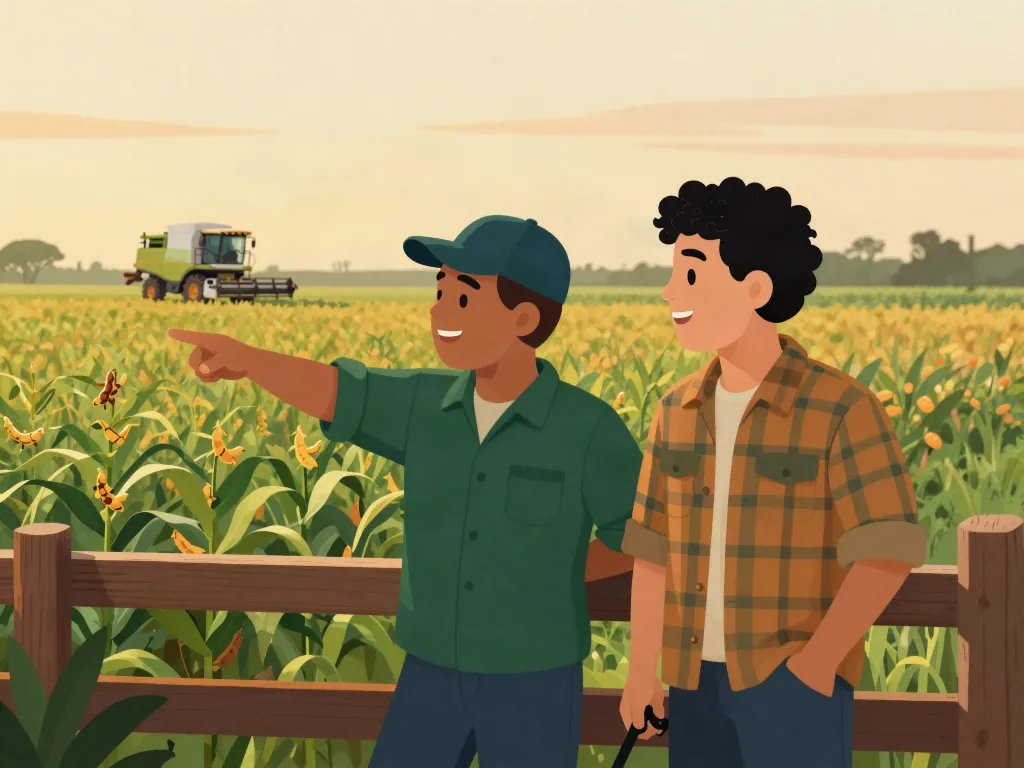
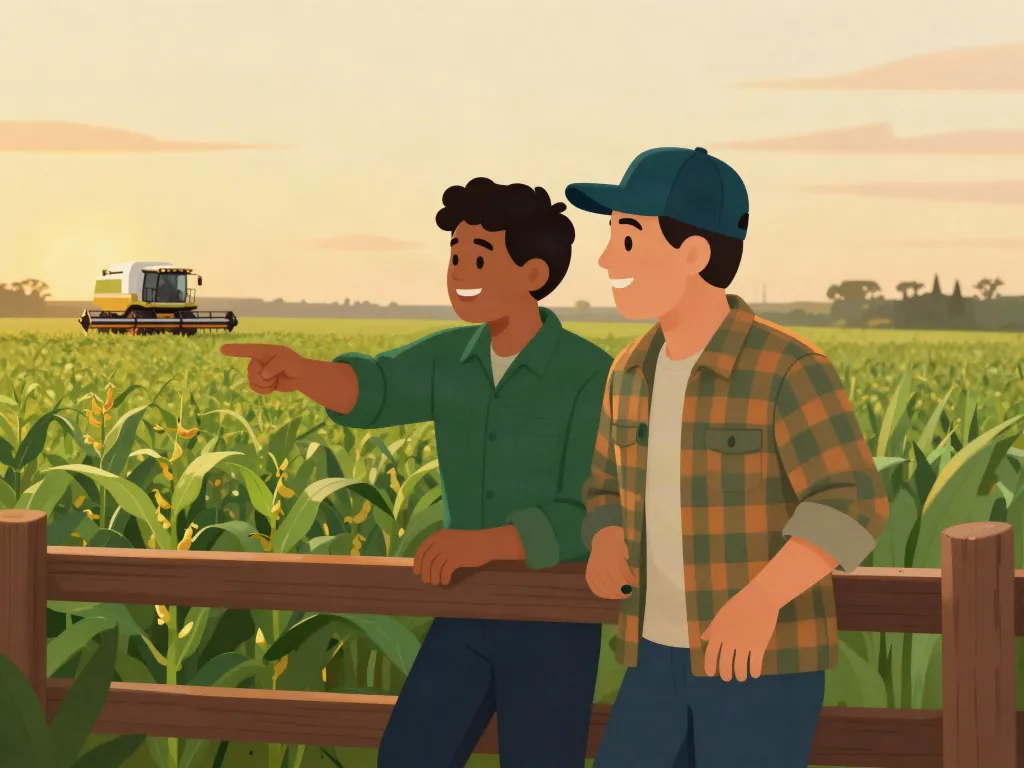
fix(slides): Agro 02 review and Agro 06 slide 3 pictures show Luan without a cap
The model had swapped the two men's caps and hair. The scenes now say that
only the American man wears a cap, and both pictures were generated again.

Claude-Session: https://claude.ai/code/session_01C7Bj6zBKBkBtG5mUz5zq5V

diff --git a/agro_aula_02.html b/agro_aula_02.html
@@ -457,7 +457,7 @@
         <button type="button" class="gs-expandir flex-shrink-0 w-10 h-10 rounded-full bg-white/15 hover:bg-white/25 text-white flex items-center justify-center transition-all active:scale-95" aria-label="Ver o slide 6 em tela cheia" title="Tela cheia"><svg aria-hidden="true" viewBox="0 0 24 24" width="20" height="20" fill="currentColor"><path d="M4 4h6v2H6v4H4V4zm10 0h6v6h-2V6h-4V4zM4 14h2v4h4v2H4v-6zm14 0h2v6h-6v-2h4v-4z"/></svg></button>
       </div>
       <div class="gs-corpo p-3 sm:p-4 sm:grid sm:grid-cols-5 sm:gap-4 sm:items-start">
-        <img class="gs-img block w-full h-auto rounded-2xl bg-emerald-50 sm:col-span-2" src="assets/img/gramatica/agro02-5.webp?v=46ca477481" alt="" width="1024" height="768" loading="lazy" decoding="async">
+        <img class="gs-img block w-full h-auto rounded-2xl bg-emerald-50 sm:col-span-2" src="assets/img/gramatica/agro02-5.webp?v=f6bb83b51f" alt="" width="1024" height="768" loading="lazy" decoding="async">
         <div class="gs-texto mt-3 sm:mt-0 sm:col-span-3">
           <ul class="gs-lista space-y-2">
             <li class="gs-item flex items-start gap-3 rounded-2xl bg-slate-50 px-3 py-3 sm:px-4">

diff --git a/agro_aula_06.html b/agro_aula_06.html
@@ -341,7 +341,7 @@
         <button type="button" class="gs-expandir flex-shrink-0 w-10 h-10 rounded-full bg-white/15 hover:bg-white/25 text-white flex items-center justify-center transition-all active:scale-95" aria-label="Ver o slide 4 em tela cheia" title="Tela cheia"><svg aria-hidden="true" viewBox="0 0 24 24" width="20" height="20" fill="currentColor"><path d="M4 4h6v2H6v4H4V4zm10 0h6v6h-2V6h-4V4zM4 14h2v4h4v2H4v-6zm14 0h2v6h-6v-2h4v-4z"/></svg></button>
       </div>
       <div class="gs-corpo p-3 sm:p-4 sm:grid sm:grid-cols-5 sm:gap-4 sm:items-start">
-        <img class="gs-img block w-full h-auto rounded-2xl bg-emerald-50 sm:col-span-2" src="assets/img/gramatica/agro06-3.webp?v=a13e65114c" alt="" width="1024" height="768" loading="lazy" decoding="async">
+        <img class="gs-img block w-full h-auto rounded-2xl bg-emerald-50 sm:col-span-2" src="assets/img/gramatica/agro06-3.webp?v=c68c026a63" alt="" width="1024" height="768" loading="lazy" decoding="async">
         <div class="gs-texto mt-3 sm:mt-0 sm:col-span-3">
           <ul class="gs-lista space-y-2">
             <li class="gs-item flex items-start gap-3 rounded-2xl bg-slate-50 px-3 py-3 sm:px-4">
